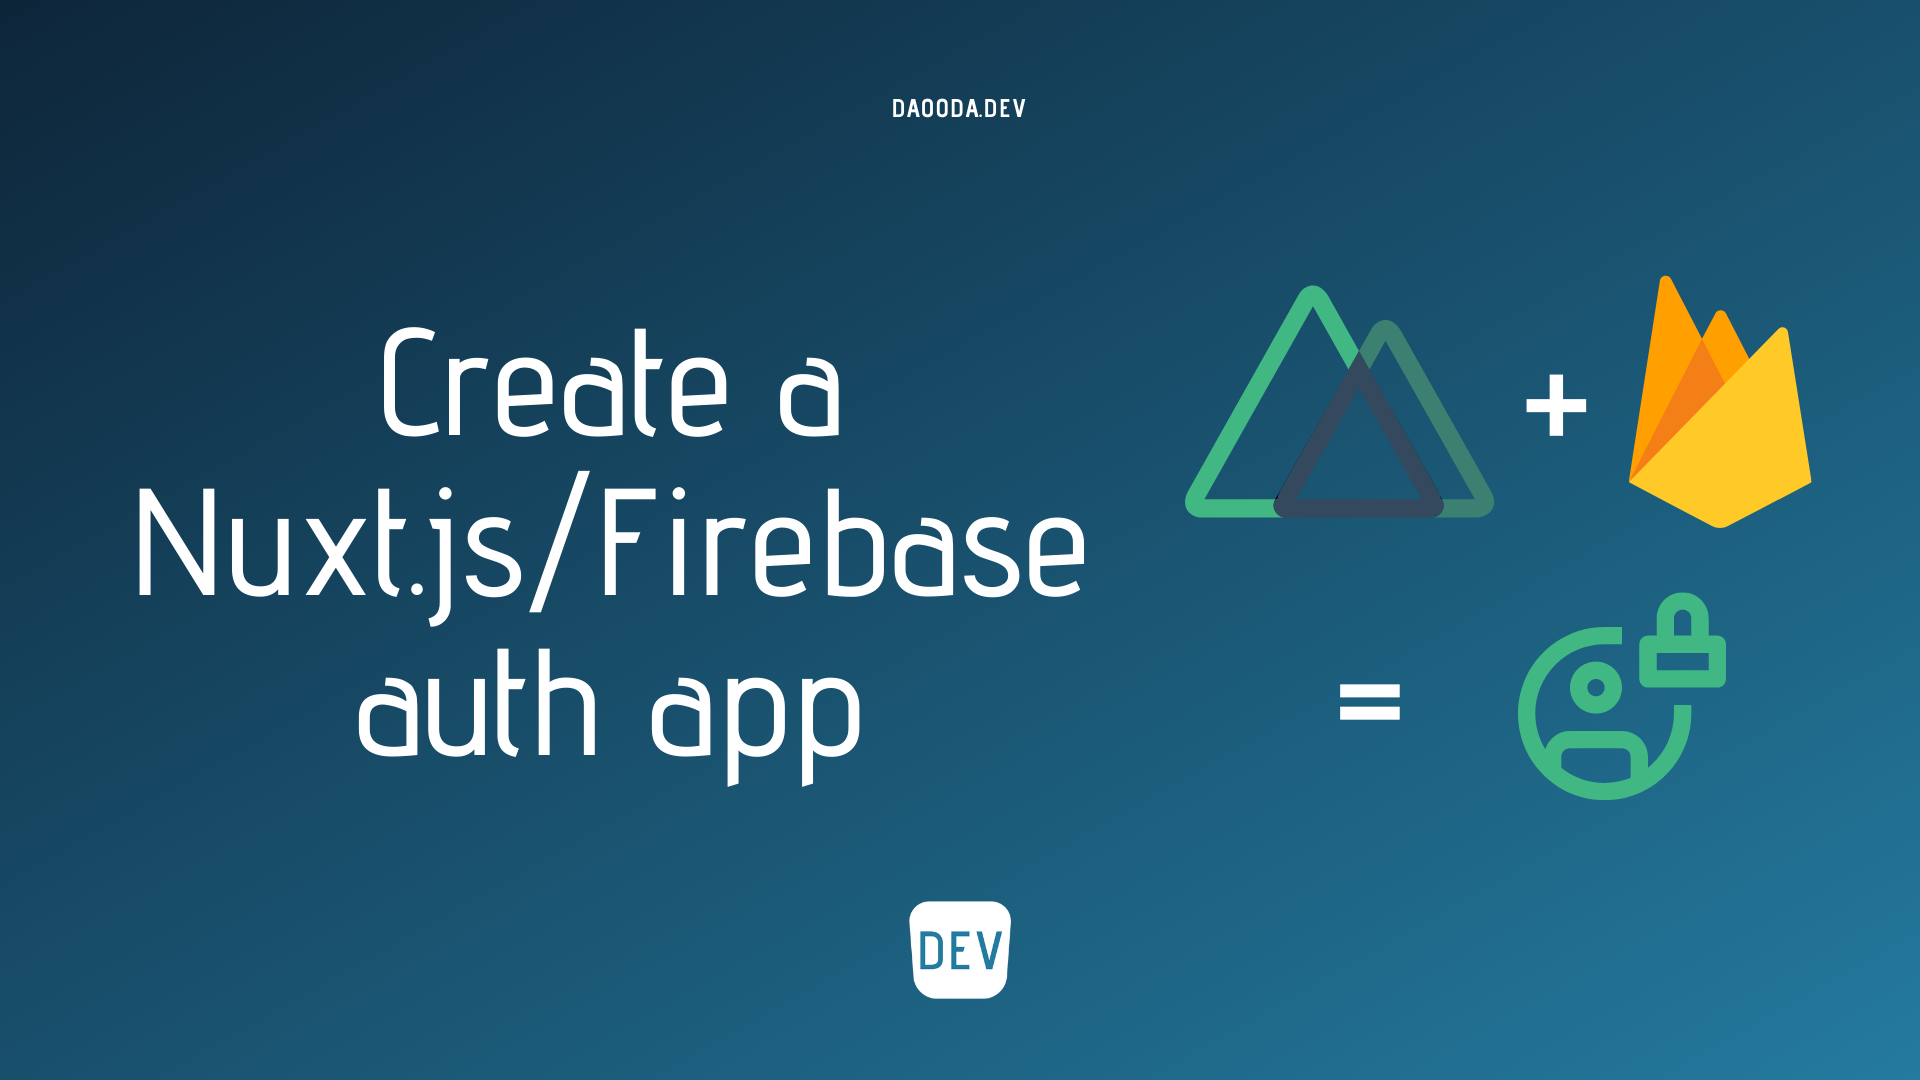
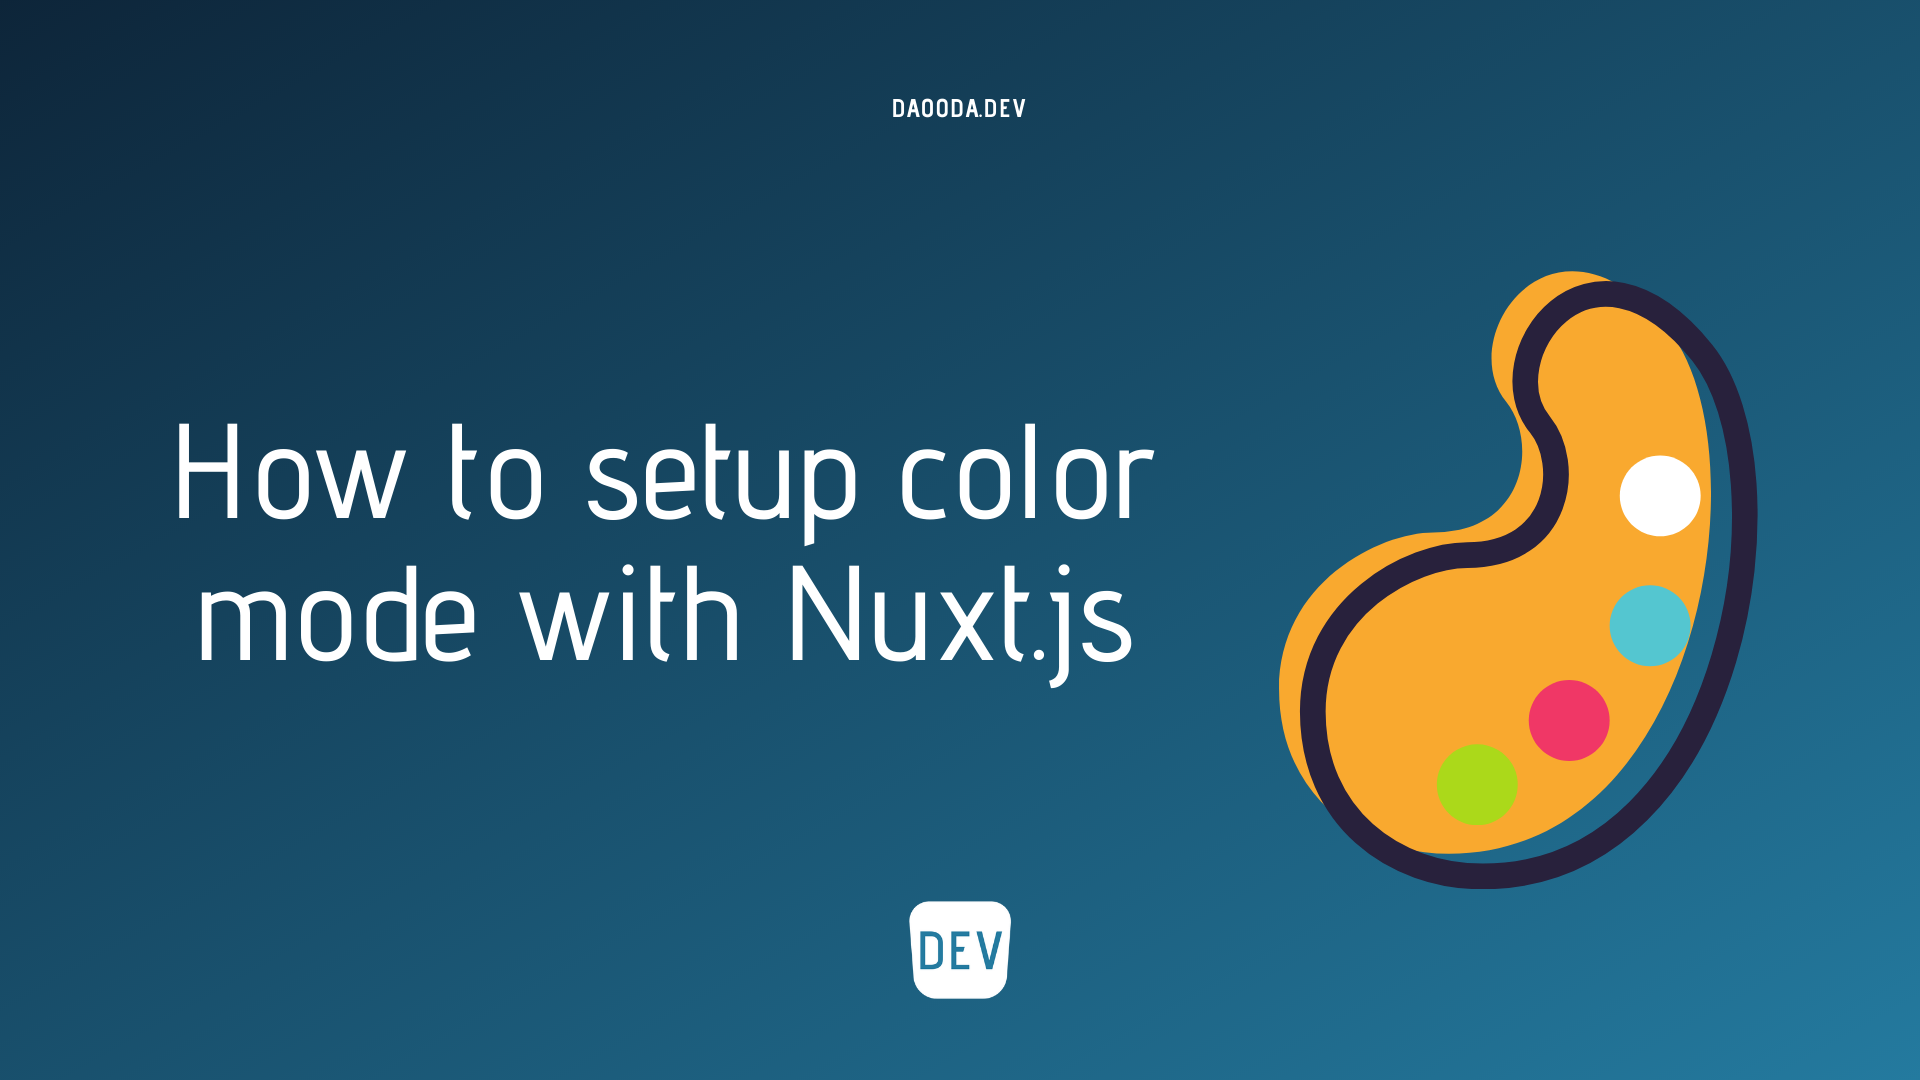
new article 🆙 work in progress.

Changed region(s): [[0.0625, 0.2444, 0.9688, 0.825]]

diff --git a/content/how-to-setup-color-mode-with-nuxt.md b/content/how-to-setup-color-mode-with-nuxt.md
@@ -1,0 +1,114 @@
+---
+title: How to setup color mode with Nuxt.js
+path: /setup-color-mode-with-nuxt
+date: 2022-02-26
+summary: Lorem ipsum dolor sit amet, consectetur adipisicing elit. Praesentium inventore hic possimus, cum nesciunt ea debitis, tempora officia perferendis vero ratione nam laudantium aliquid voluptatem velit? Open `/src/layouts.vue` and then edit the `main.css` file.
+tags: ['frontend', 'nuxt', 'vue', 'color-mode']
+---
+
+![background](/blog/post2/blog_post.webp)
+
+Lorem ipsum dolor sit amet, [consectetur adipisicing](https://google.ca) elit. Praesentium inventore hic possimus, cum nesciunt ea debitis, tempora officia perferendis vero ratione nam laudantium aliquid voluptatem velit? Open `/src/layouts.vue` and then edit the `main.css` file.
+
+> Lorem ipsum dolor sit amet consectetur adipisicing elit. Hic rerum earum quos explicabo suscipit maxime iste qui nihil `layout.vue` and then edit the `main.scss` file.
+
+```js
+<template>
+  <Layout>
+    <div class="container-inner mx-auto my-16">
+      <h1 class="text-4xl font-bold leading-tight">{{ $page.post.title }}</h1>
+      <div class="text-xl text-gray-600 mb-8">{{ $page.post.date }}</div>
+      <div class="markdown-body" v-html="$page.post.content" />
+    </div>
+  </Layout>
+</template>
+```
+
+Lorem ipsum dolor sit amet consectetur adipisicing elit. Hic rerum earum quos explicabo suscipit. Praesentium inventore hic possimus, cum nesciunt ea debitis, tempora officia perferendis vero ratione nam laudantium aliquid voluptatem velit? Open `/src/layouts.vue` and then edit the `main.css` file.
+
+Lorem ipsum dolor sit amet consectetur adipisicing elit. Hic rerum earum quos explicabo suscipit. Praesentium inventore hic possimus, cum nesciunt ea debitis, tempora officia perferendis vero ratione nam laudantium aliquid voluptatem velit? Open `/src/layouts.vue` and then edit the `main.css` file.
+
+```js
+<script>
+export default {
+  props: ['totalPages', 'currentPage'],
+  computed: {
+    showPreviousPage() {
+      return this.currentPage !== 1
+    },
+    previousPage() {
+      return [0, 1].includes(this.currentPage - 1)
+        ? this.base
+        : `${this.base}/${this.currentPage - 1}`;
+    },
+    showNextPage() {
+      return this.currentPage !== this.totalPages
+    },
+    nextPage(currentPage, totalPages) {
+      return this.totalPages > this.currentPage
+        ? `${this.base}/${this.currentPage + 1}`
+        : `${this.base}/${this.currentPage}`;
+    }
+  },
+  data() {
+    return {
+      base: '/blog'
+    }
+  }
+}
+</script>
+```
+
+---
+
+## Typography
+
+Here is how some typography styles are rendered:
+
+# h1 Heading
+## h2 Heading
+### h3 Heading
+#### h4 Heading
+##### h5 Heading
+###### h6 Heading
+
+The quick brown fox jumps over the lazy dog
+
+<s>The quick brown fox jumps over the lazy dog</s>
+
+<u>The quick brown fox jumps over the lazy dog</u>
+
+_The quick brown fox jumps over the lazy dog_
+
+**The quick brown fox jumps over the lazy dog**
+
+`The quick brown fox jumps over the lazy dog`
+
+<small>The quick brown fox jumps over the lazy dog</small>
+
+> The quick brown fox jumps over the lazy dog
+
+[The quick brown fox jumps over the lazy dog](https://google.ca)
+
+```php
+<?php
+
+class Foo extends bar
+{
+    public function fooBar()
+    {
+        //
+    }
+}
+```
+
+### <span style="color: #247ba0; text-decoration: underline;"> 1. *Create universal apps easily* 🌍 </span>
+
+Lorem ipsum dolor sit amet, consectetur adipisicing elit. Praesentium inventore hic possimus, cum nesciunt ea debitis, tempora officia perferendis vero ratione nam laudantium aliquid voluptatem velit? Open `/src/layouts.vue` and then edit the `main.css` file.
+
+#### <span style="color: #247ba0"> ⌛ *Conclusion* </span>
+
+You will probably have noticed my website was made with Nuxt and it is thanks to all these advantages that I have Nuxt one of my favorite tools to develop powerful applications.  
+But despite all these good reasons, Nuxt also has some cons that will cause some to favor other technos.
+
+Happy coding 🙌
